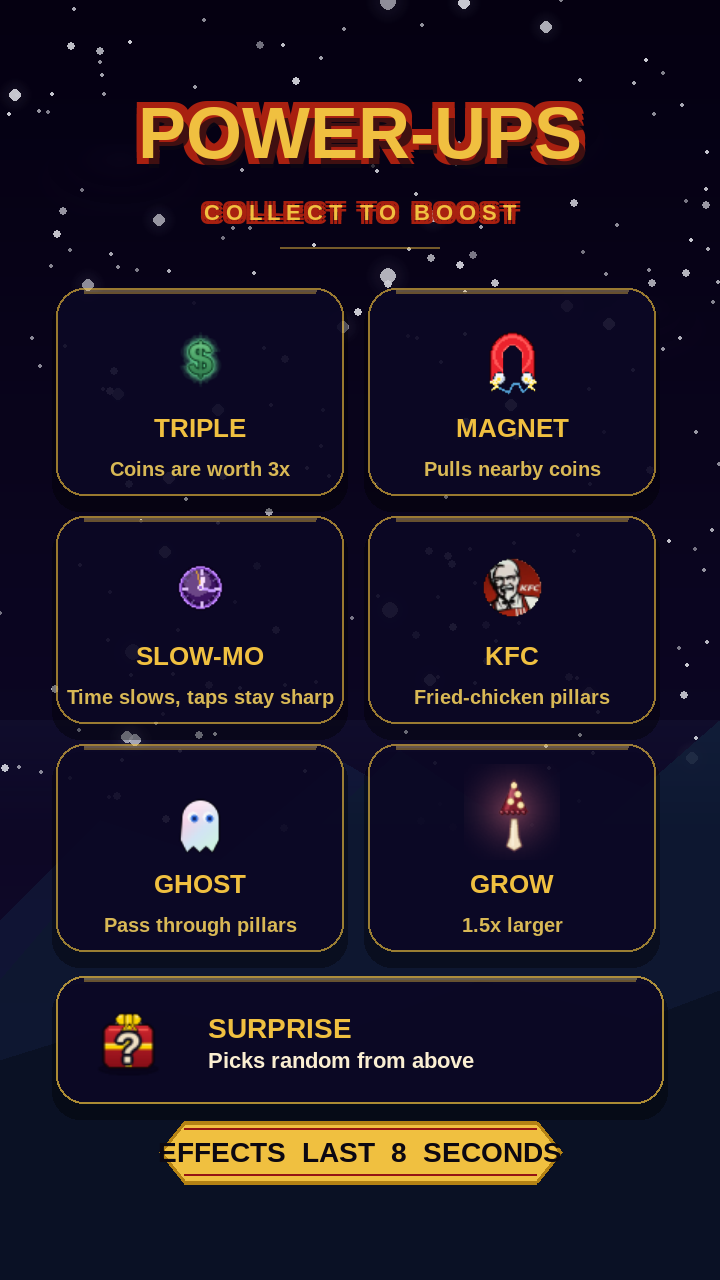
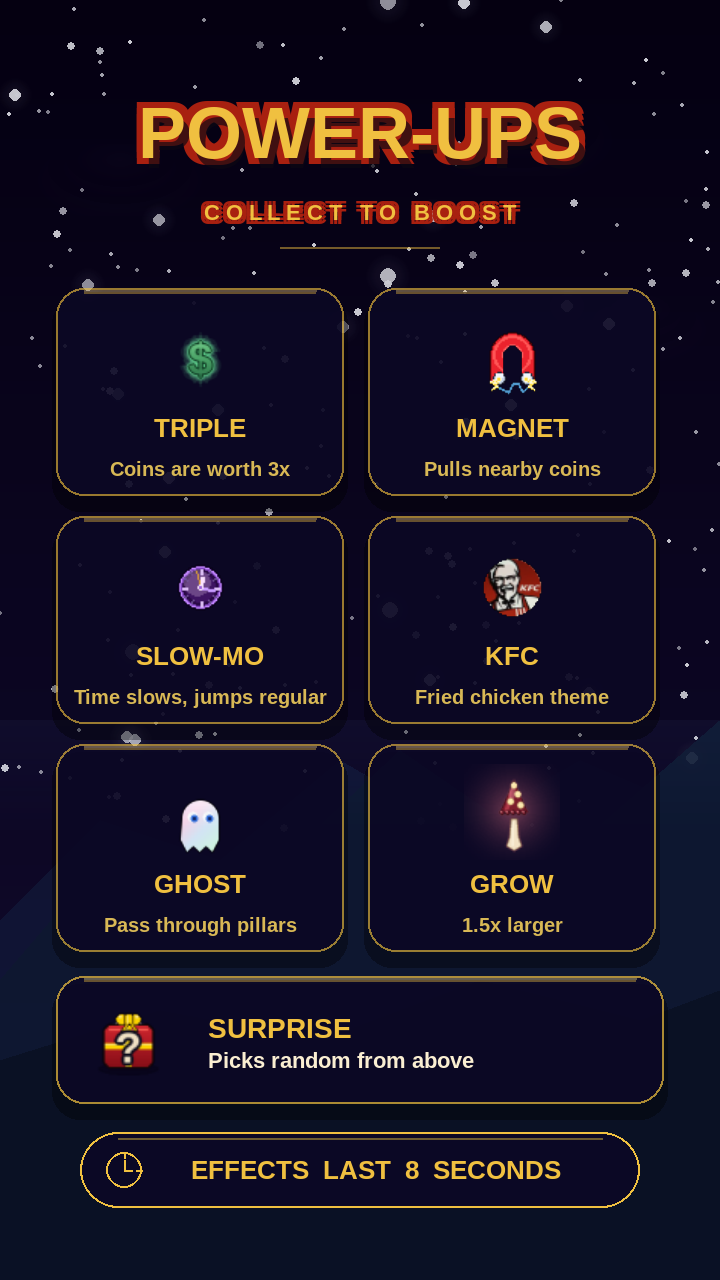
powerups: replace chunky ribbon footer + fix two blurbs
* Dropped the hexagonal ribbon-banner footer; it read as visually
  heavy and didn't share DNA with the rest of the screen. Replaced
  with a clean rounded dark-navy plaque carrying a gold rim, a tiny
  gold clock-face ornament on the left, and gold-bright EFFECTS LAST
  8 SECONDS text. Same visual family as the BEST / TOP 10 / SCORE
  panels so it reads as part of the system instead of a separate
  banner. Anchored to sit 14px below the SURPRISE card (was
  overlapping by ~22px on the previous version).
* KFC blurb: 'Fried-chicken pillars' -> 'Fried chicken theme'
* SLOW-MO blurb: 'Time slows, taps stay sharp' -> 'Time slows, jumps regular'

https://claude.ai/code/session_018aMR2JMRznXecCbr8wqCRe

diff --git a/tools/gen_scarlet_set.py b/tools/gen_scarlet_set.py
@@ -866,8 +866,8 @@ def screen_powerups():
     items = [
         ("triple",  "TRIPLE",   "Coins are worth 3x"),
         ("magnet",  "MAGNET",   "Pulls nearby coins"),
-        ("slowmo",  "SLOW-MO",  "Time slows, taps stay sharp"),
-        ("kfc",     "KFC",      "Fried-chicken pillars"),
+        ("slowmo",  "SLOW-MO",  "Time slows, jumps regular"),
+        ("kfc",     "KFC",      "Fried chicken theme"),
         ("ghost",   "GHOST",    "Pass through pillars"),
         ("grow",    "GROW",     "1.5x larger"),
     ]
@@ -909,8 +909,48 @@ def screen_powerups():
     s.blit(df, (sb_rect.x + 76 * SCALE,
                 sb_rect.centery + 4 * SCALE))
 
-    ribbon_banner(s, W // 2, sb_y + 88 * SCALE,
-                  "EFFECTS  LAST  8  SECONDS", w=200)
+    # Footer plaque — clean rounded dark-navy panel with a gold rim,
+    # a small clock ornament on the left, and gold-bright text. Same
+    # visual family as the BEST / TOP 10 / SCORE panels so it reads
+    # as part of the system instead of a separate ribbon.
+    fp_w = 280 * SCALE
+    fp_h = 38 * SCALE
+    fp_rect = pygame.Rect(W // 2 - fp_w // 2,
+                          sb_rect.bottom + 14 * SCALE,
+                          fp_w, fp_h)
+    fp = pygame.Surface(fp_rect.size, pygame.SRCALPHA)
+    pygame.draw.rect(fp, (*PANEL_DARK, 230), (0, 0, fp_w, fp_h),
+                     border_radius=fp_h // 2)
+    pygame.draw.rect(fp, GOLD_BRIGHT, (0, 0, fp_w, fp_h),
+                     width=1 * SCALE, border_radius=fp_h // 2)
+    pygame.draw.line(fp, (*GOLD_BRIGHT, 110),
+                     (fp_h // 2, 3 * SCALE),
+                     (fp_w - fp_h // 2, 3 * SCALE), 1 * SCALE)
+    s.blit(fp, fp_rect.topleft)
+    # Tiny clock-face ornament on the left
+    clk_cx = fp_rect.x + 22 * SCALE
+    clk_cy = fp_rect.centery
+    pygame.draw.circle(s, GOLD_BRIGHT, (clk_cx, clk_cy), 9 * SCALE, 1 * SCALE)
+    # 12 o'clock + 3 o'clock tick marks
+    pygame.draw.line(s, GOLD_BRIGHT,
+                     (clk_cx, clk_cy - 9 * SCALE),
+                     (clk_cx, clk_cy - 6 * SCALE), 1 * SCALE)
+    pygame.draw.line(s, GOLD_BRIGHT,
+                     (clk_cx + 6 * SCALE, clk_cy),
+                     (clk_cx + 9 * SCALE, clk_cy), 1 * SCALE)
+    # Hour + minute hands
+    pygame.draw.line(s, GOLD_BRIGHT,
+                     (clk_cx, clk_cy), (clk_cx, clk_cy - 5 * SCALE),
+                     1 * SCALE)
+    pygame.draw.line(s, GOLD_BRIGHT,
+                     (clk_cx, clk_cy), (clk_cx + 4 * SCALE, clk_cy),
+                     1 * SCALE)
+    # Text — gold bright, centred (with a small offset right so the
+    # clock + text feel like one composition)
+    tf = font(13, True).render("EFFECTS  LAST  8  SECONDS",
+                               True, GOLD_BRIGHT)
+    s.blit(tf, tf.get_rect(center=(fp_rect.centerx + 8 * SCALE,
+                                   fp_rect.centery)))
 
     save("v3_scarlet_powerups.png", s)
 
